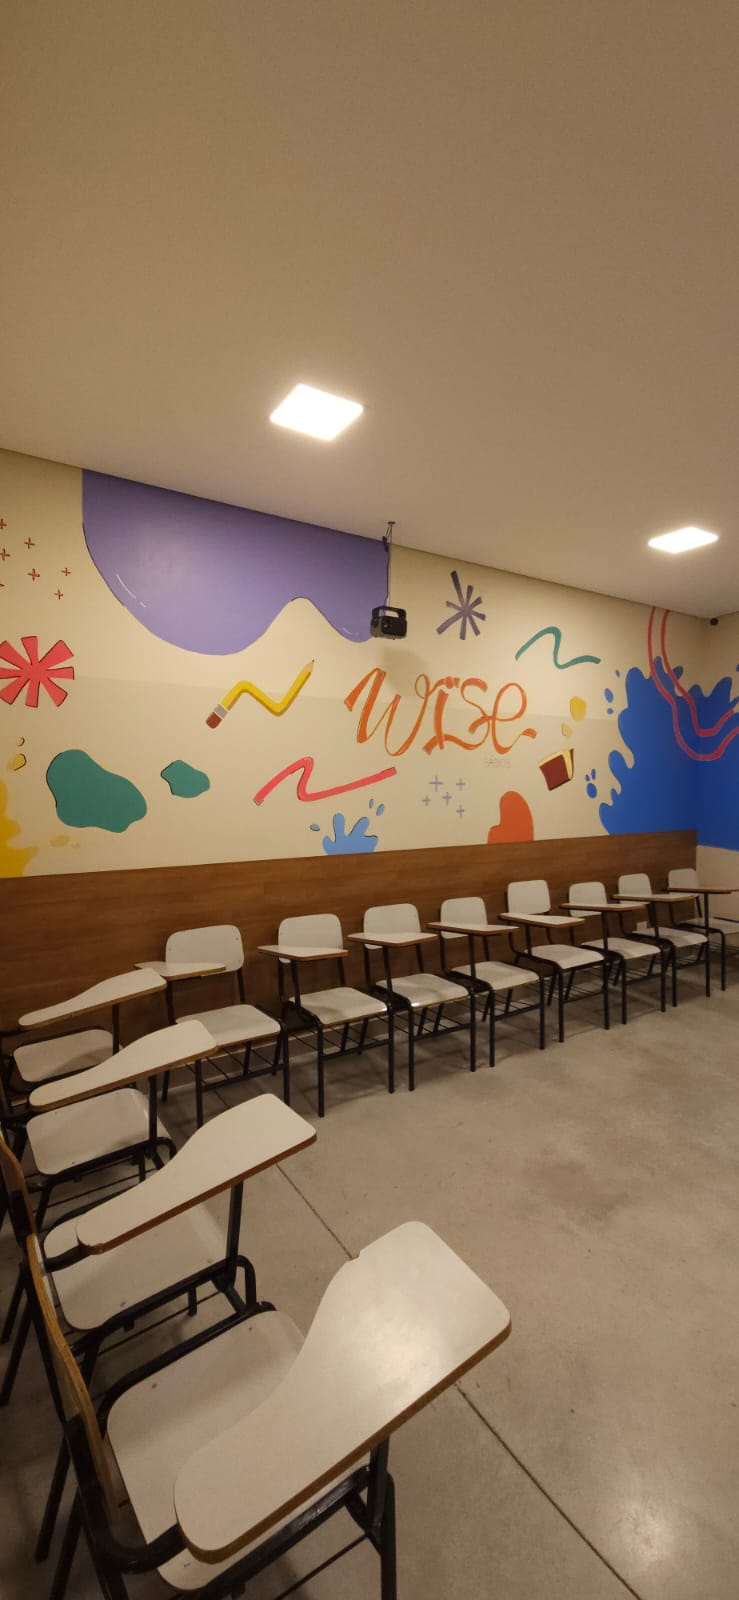
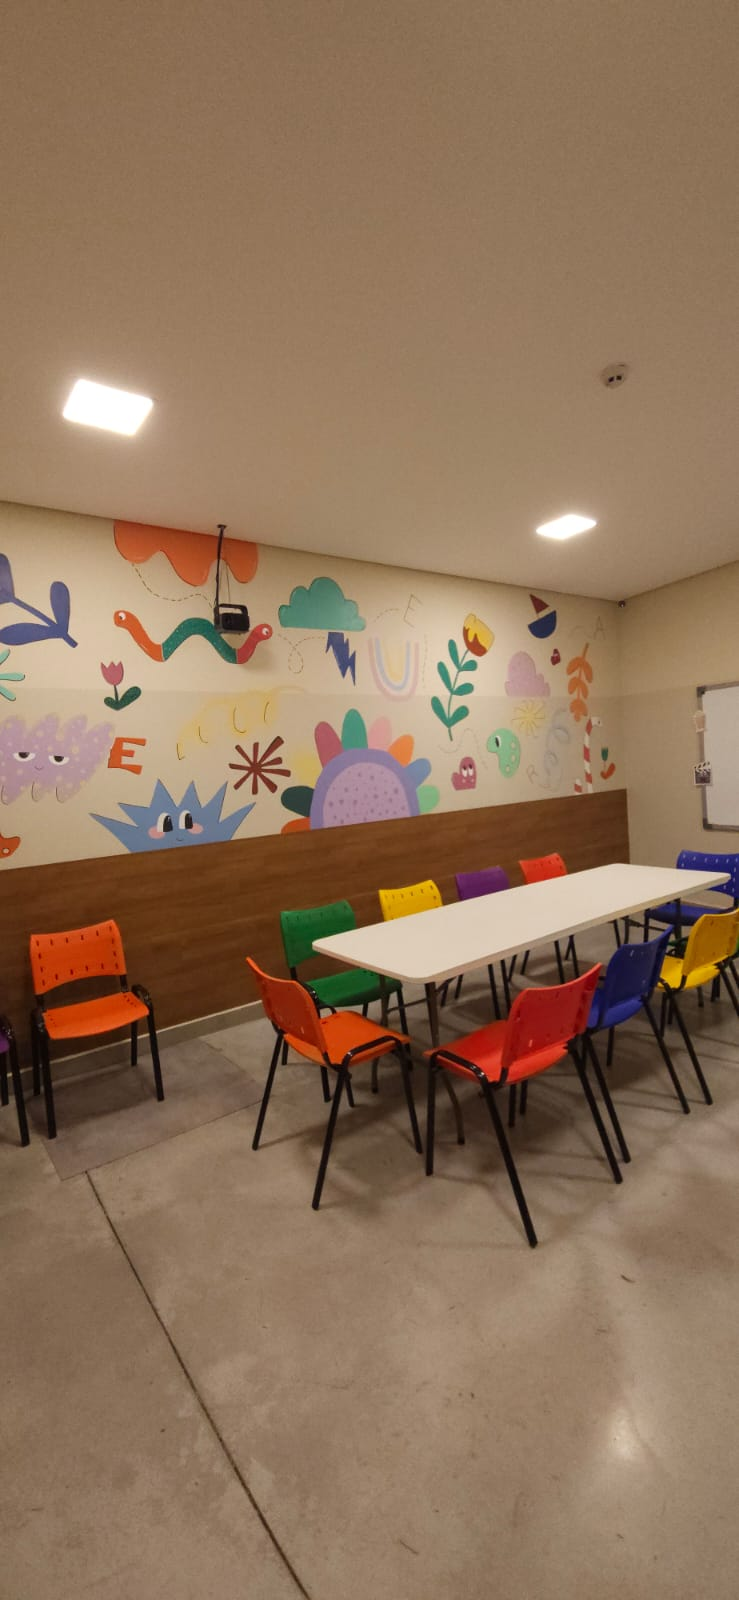
Add murais section to portfolio

diff --git a/index.html b/index.html
@@ -4,7 +4,7 @@
 <meta charset="utf-8">
 <meta name="viewport" content="width=device-width, initial-scale=1">
 <title>Bruna Fernandes Nietto — Ilustradora</title>
-<meta name="description" content="Portfólio de Bruna Fernandes Nietto, ilustradora: livros infantis, personagens e ilustrações infantis, commissions, pinturas e projeto missionário.">
+<meta name="description" content="Portfólio de Bruna Fernandes Nietto, ilustradora: livros infantis, personagens e ilustrações infantis, commissions, pinturas, projeto missionário e murais.">
 <meta name="author" content="Bruna Fernandes Nietto">
 <meta name="theme-color" content="#F7F7F7">
 <link rel="icon" href="assets/favicon.ico" sizes="any">
@@ -15,7 +15,7 @@
 <meta property="og:locale" content="pt_BR">
 <meta property="og:site_name" content="Bruna Nietto">
 <meta property="og:title" content="Bruna Fernandes Nietto — Ilustradora">
-<meta property="og:description" content="Livros infantis, personagens e ilustrações infantis, commissions, pinturas e projeto missionário.">
+<meta property="og:description" content="Livros infantis, personagens e ilustrações infantis, commissions, pinturas, projeto missionário e murais.">
 <meta property="og:url" content="https://bruna.nietto.com.br/">
 <meta property="og:image" content="https://bruna.nietto.com.br/assets/img/livros-infantis/2.jpeg">
 <meta property="og:image:width" content="1280">
@@ -24,7 +24,7 @@
 
 <meta name="twitter:card" content="summary_large_image">
 <meta name="twitter:title" content="Bruna Fernandes Nietto — Ilustradora">
-<meta name="twitter:description" content="Livros infantis, personagens e ilustrações infantis, commissions, pinturas e projeto missionário.">
+<meta name="twitter:description" content="Livros infantis, personagens e ilustrações infantis, commissions, pinturas, projeto missionário e murais.">
 <meta name="twitter:image" content="https://bruna.nietto.com.br/assets/img/livros-infantis/2.jpeg">
 
 <link rel="stylesheet" href="css/styles.css">
@@ -125,6 +125,7 @@
       <button class="filtro" type="button" data-filtro="commissions" aria-pressed="false">Commissions</button>
       <button class="filtro" type="button" data-filtro="pinturas" aria-pressed="false">Pinturas</button>
       <button class="filtro" type="button" data-filtro="projeto-missionario" aria-pressed="false">Projeto missionário</button>
+      <button class="filtro" type="button" data-filtro="murais" aria-pressed="false">Murais</button>
     </div>
 
     <p class="so-leitor-de-tela" role="status" id="portfolio-status"></p>
@@ -305,6 +306,49 @@
           <figure class="obra">
             <button class="obra__botao" type="button">
               <img src="assets/img/projeto-missionario/1.jpeg" alt="Projeto missionário ilustrado por Bruna Nietto" width="720" height="720" loading="lazy">
+            </button>
+          </figure>
+        </div>
+      </section>
+
+      <!-- Murais -->
+      <section class="grupo" data-categoria="murais" aria-labelledby="grupo-murais">
+        <h3 class="grupo__titulo" id="grupo-murais">Murais</h3>
+
+        <div class="grupo__obras">
+          <figure class="obra">
+            <button class="obra__botao" type="button">
+              <img src="assets/img/murais/1.jpg" alt="Mural pintado por Bruna Nietto" width="814" height="1600" loading="lazy">
+            </button>
+          </figure>
+
+          <figure class="obra">
+            <button class="obra__botao" type="button">
+              <img src="assets/img/murais/2.jpg" alt="Mural pintado por Bruna Nietto" width="1200" height="1600" loading="lazy">
+            </button>
+          </figure>
+
+          <figure class="obra">
+            <button class="obra__botao" type="button">
+              <img src="assets/img/murais/3.jpg" alt="Mural pintado por Bruna Nietto" width="900" height="1600" loading="lazy">
+            </button>
+          </figure>
+
+          <figure class="obra">
+            <button class="obra__botao" type="button">
+              <img src="assets/img/murais/4.jpg" alt="Mural pintado por Bruna Nietto" width="739" height="1600" loading="lazy">
+            </button>
+          </figure>
+
+          <figure class="obra">
+            <button class="obra__botao" type="button">
+              <img src="assets/img/murais/5.jpg" alt="Mural pintado por Bruna Nietto" width="739" height="1600" loading="lazy">
+            </button>
+          </figure>
+
+          <figure class="obra">
+            <button class="obra__botao" type="button">
+              <img src="assets/img/murais/6.jpg" alt="Mural pintado por Bruna Nietto" width="739" height="1600" loading="lazy">
             </button>
           </figure>
         </div>
